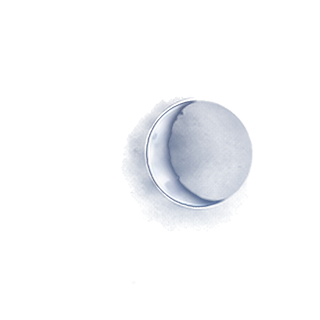
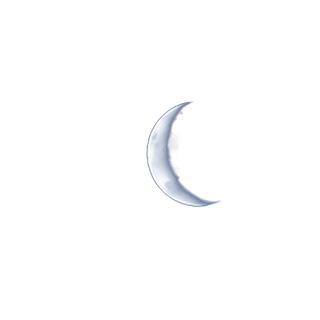
Месяц крупнее и без тёмного круга вокруг
Месяц ×1.5 на десктопе и ×2 на телефоне, на десктопе поднят на 30px. В полный
экран на телефоне он больше не теряется: правило .sceneFull перебивало телефонную
ветку старшинством селектора и навязывало узкому экрану десктопную долю ширины.

Тёмный круг вокруг месяца складывался из двух разных вещей.

Сама картинка тащила в слой не только серп: у месяца на исходнике слабо светится
и вся остальная половина диска, превышение над фоном 10–30 против 95–190 у серпа.
В кадре это читалось не свечением, а мутным пятном, и порог его срезает.

Кружок неба под диском — тот, что закрывает звёзды за невидимой половиной луны, —
разъезжался с самим небом. Градиент в нём был подобран руками под прежнюю картинку,
а высота задана долей диска: обе привязки держались только на том, что диск и небо
растут от одной ширины кадра. В полный экран это неверно, и кружок выходил темнее
неба на десяток единиц по синему — то есть заметным кругом.

Теперь он рисует ровно тот же градиент, который залит в саму картинку (SKY_PROFILE
из tools/scene-assets), расписан на её честную высоту и сдвинут так, чтобы лечь с ней
друг на друга. Высоту меряет сама сцена и кладёт в --sky-img-px: считается она по двум
разным правилам, и какое в силе, зависит от того, что шире — окно или небо. В диск
попадает тот кусок неба, над которым месяц стоит, поэтому двигать его можно куда угодно.

Claude-Session: https://claude.ai/code/session_01QeEwrmntMpcrMXwYX2y9u2

Changed region(s): [[0.375, 0.3125, 0.8125, 0.6875]]

diff --git a/src/components/SeaScene/SeaScene.module.less b/src/components/SeaScene/SeaScene.module.less
@@ -82,7 +82,10 @@
 // Мерка — верхняя кромка строки состояния: 8px отступа шапки и строка заголовка над ней
 // (замер: заголовок кончается на 30px от верха сцены). Не середина строки: диск на телефоне
 // выше её самой, и, поставленный серединой, он задевал бы заголовок сверху.
-@moon-above: 70px;
+//
+// Высота над горизонтом на десктопе — повыше середины неба: месяц, висящий над самой водой,
+// спорит с лунной дорожкой, которая из него же и растёт.
+@moon-above: 100px;
 @moon-top-mobile: 31px;
 
 // Сколько месяцу оставаться над горизонтом хотя бы. В тесном кадре (вылезла клавиатура,
@@ -97,31 +100,46 @@
 // высоты, то есть 10.94% картинки свисает ниже диска.
 //
 // На телефоне та же доля записана в vw: сцена там во всю ширину экрана, и обе записи значат
-// одно и то же. Нужна именно эта — размер диска входит в расчёт кружка неба под ним,
-// а процент в background-position считался бы уже от самого диска, а не от кадра.
-@moon-disc: 4.155%;
-@moon-disc-max: 36px;
-@moon-disc-mobile: 3.27vw;
-@moon-disc-max-mobile: 27px;
+// одно и то же. Нужна именно эта — от неё отмеряется, на какой высоте над горизонтом месяц
+// в итоге оказался, а от этого зависит, какой кусок неба лечь под диск (см. --moon-lift).
+@moon-disc: 6.23%;
+@moon-disc-max: 54px;
+@moon-disc-mobile: 6.54vw;
+@moon-disc-max-mobile: 54px;
 @moon-image: (100% / 0.59375); // 168.42% — картинка от диаметра диска
 @moon-image-drop: (-10.94% / 0.59375); // -18.42% — на столько картинка свисает ниже диска
 
-// Небо под месяцем. Сквозь тёмную половину месяца просвечивали звёзды — у картинки она
-// прозрачна, — поэтому под диск подложен кружок с небом. Небо здесь нарисовано градиентом
-// по замеру самого неба: четыре точки на снимке под месяцем, от горизонта вверх.
+// Небо под месяцем. Луна круглая, и сквозь её невидимую половину не должны просвечивать
+// звёзды — поэтому под диск подложен кружок с небом.
 //
-// Градиент расписан не по кружку, а по всему небу и прижат к горизонту — так же, как сама
-// картинка неба. Кружку достаётся тот кусок, над которым он стоит, и месяц можно двигать
-// по небу куда угодно: под ним всегда окажется то небо, которое там и есть.
+// Небо здесь нарисовано градиентом, и это ровно тот же градиент, который залит в саму
+// картинку неба: строки её сведены к этому профилю при подготовке (SKY_PROFILE в
+// tools/scene-assets/prepare-backgrounds.py), сверху вниз, двенадцатью отсчётами ровным шагом.
+// Совпадение обязано быть точным — расхождение в десяток единиц по синему уже читается как
+// круг вокруг месяца.
 //
-// Высота, на которую расписан градиент, задана долей самого кружка, а не пикселями: картинка
-// неба масштабируется по ширине кадра, и вместе с ней должен тянуться градиент. Кружок тоже
-// доля ширины — значит их отношение постоянно, и в нём вся привязка.
-@sky-gradient: linear-gradient(to top, #001f58 0%, #001849 20%, #00123c 40%, #000d30 60%, #000726 80%, #00031c 100%);
-// Доли эти считаны от диска, поэтому при смене его размера меняются вместе с ним: диск
-// уменьшили вдвое — доли выросли вдвое, а кружок неба в пикселях остался прежним.
-@sky-gradient-height: 540%;
-@sky-gradient-height-mobile: 680%;
+// Кружку он расписывается на всю высоту картинки неба и сдвигается так, чтобы лечь с ней
+// в точности друг на друга. Тогда в диск попадает ровно тот кусок неба, над которым месяц
+// стоит, и месяц можно двигать по небу куда угодно: кружок пойдёт за ним сам.
+@sky-gradient: linear-gradient(
+    to bottom,
+    #000118,
+    #000118,
+    #00031c,
+    #000623,
+    #000a2a,
+    #000d30,
+    #001138,
+    #001440,
+    #001849,
+    #001d53,
+    #00235e,
+    #012867
+);
+// Насколько картинка неба опущена ниже горизонта: она прижата к нему низом и сдвинута вниз
+// на десятую часть своей высоты (см. .skyStrip). Та же доля нужна и кружку — он отмеряется
+// от горизонта, а лечь должен на картинку.
+@sky-image-drop: 0.1;
 
 // Облака: тоже привязаны к горизонту, а не к верху кадра. Дальнее висит прямо на линии воды
 // и заходит за неё — потому и отступ у него отрицательный.
@@ -421,12 +439,12 @@
     --horizon: @sky-share;
     --sea-fit: ~'calc(100% - var(--horizon))';
     --sky-px: ~'calc(var(--scene-height) * 0.4)';
-    --moon-above: ~'calc(var(--scene-height) * 0.17)';
+    --moon-above: ~'calc(var(--scene-height) * 0.17 + 30px)';
     // Предел диска месяца. Второй мерой стоит доля высоты кадра: поджатый шторкой кадр
-    // оставляет небу свои 40% от куда меньшей высоты, и месяц, упёршийся в потолок в 66px,
+    // оставляет небу свои 40% от куда меньшей высоты, и месяц, упёршийся в потолок в 99px,
     // не помещался в него — верх рогов срезала кромка сцены. Число подобрано так, чтобы
     // на нетронутом кадре месяц остался прежним, а вместе с кадром — уменьшался.
-    --moon-disc-max: ~'min(66px, var(--scene-height) * 0.085)';
+    --moon-disc-max: ~'min(99px, var(--scene-height) * 0.128)';
     --berth-dot-far: ~'max(@{berth-dot-far}, @{berth-dot-far-full})';
     --berth-dot-near: ~'max(@{berth-dot-near}, @{berth-dot-near-full})';
     // Рейд идёт за высотой кадра, а не за его шириной. Развёрнутый кадр поджимается открытой
@@ -461,20 +479,23 @@
 
 // Месяц на полноэкранной сцене отсчитывается от горизонта на всех экранах: телефонная мерка
 // вела его от строки состояния, а строка эта на весь экран уезжает в самый угол и месяцу
-// больше не спутница. Правило перекрывает телефонную ветку .moon старшинством селектора.
-// Кружок неба под диском тоже пересчитывается. Обычная сцена задаёт его высоту долей самого
-// диска (@sky-gradient-height): диск — доля ширины кадра, картинка неба масштабируется по той же
-// ширине, значит отношение постоянно и 540% диска — это ровно высота видимого неба. Развёрнутая
-// сцена обе опоры выбивает: неба в ней 40% высоты кадра, а не доля ширины, да ещё и диск упёрся
-// в свой потолок. От этого на широком мониторе градиент выходил вдвое короче неба, сваливался
-// к тёмному концу раньше времени, и вокруг месяца проступал тёмный круг. Поэтому здесь высота
-// кружка берётся честной высотой неба в пикселях.
+// больше не спутница. Правило перекрывает телефонную ветку .moon старшинством селектора —
+// вместе с досчитанной там высотой над горизонтом, которая здесь снова задана прямо.
 .sceneFull .moon {
+    --moon-lift: var(--moon-above);
+
     top: auto;
-    bottom: calc(100% - var(--horizon) + var(--moon-above));
+    bottom: calc(100% - var(--horizon) + var(--moon-lift));
     width: @moon-disc;
-    background-size: 100% var(--sky-px);
-    background-position: center bottom calc(-1 * var(--moon-above));
+
+    // Размер — по-прежнему телефонный: доля ширины кадра, а кадр на телефоне и в обычном
+    // виде во всю ширину экрана. Без этого месяц брал бы здесь десктопную долю от той же
+    // узкой ширины и выходил вдвое мельче, чем в обычном виде, — то есть терялся на небе,
+    // которого в развёрнутом кадре как раз больше всего.
+    @media (max-width: @mobile-width) {
+        width: @moon-disc-mobile;
+        max-width: @moon-disc-max-mobile;
+    }
 }
 
 // Картинки пришли — сцена проступает целиком, разом. Плавно: сцена в шапке большая,
@@ -638,8 +659,14 @@
 // и мерить по ней нечего. Диск же несёт под собой кусок неба (см. @sky-gradient) и обязан
 // совпасть с тем кругом, который видно.
 .moon {
+    // На сколько нижняя кромка диска поднята над горизонтом. По этой мерке кружок неба
+    // встаёт на своё место, и другой у него нет: горизонт — общая опора неба и месяца.
+    // На десктопе это и есть высота месяца над горизонтом; на телефоне месяц отмерен
+    // от верха сцены, и мерку приходится досчитывать (см. ниже).
+    --moon-lift: var(--moon-above);
+
     position: absolute;
-    bottom: calc(100% - var(--horizon) + var(--moon-above));
+    bottom: calc(100% - var(--horizon) + var(--moon-lift));
     left: @moonlight;
     width: @moon-disc;
     max-width: var(--moon-disc-max);
@@ -647,30 +674,28 @@
     transform: translateX(-50%);
     border-radius: 50%;
 
-    // Небо под диском. Градиент расписан на всё небо и прижат к горизонту — тому же, что
-    // и у самой картинки неба, — а диску достаётся тот его кусок, над которым он стоит.
-    // Горизонт лежит на @moon-above ниже нижней кромки диска, туда фон и опущен.
+    // Кружок неба под диском. Высота — честная высота картинки неба в кадре: считается она
+    // по двум разным правилам (см. --sky-tile), поэтому меряет её сама сцена и кладёт сюда
+    // готовым числом. Сдвиг — до низа картинки: та опущена ниже горизонта на свою десятую
+    // долю, а диск поднят над горизонтом на --moon-lift.
     background-image: @sky-gradient;
     background-repeat: no-repeat;
-    background-size: 100% @sky-gradient-height;
-    background-position: center bottom calc(-1 * var(--moon-above));
+    background-size: 100% var(--sky-img-px);
+    background-position: center bottom calc(-1 * (var(--moon-lift) + var(--sky-img-px) * @sky-image-drop));
 
     // На телефоне месяц отмеряется от верха сцены: он стоит на строке состояния (см.
     // @moon-top-mobile) и никуда с неё не сходит, пока над горизонтом есть место. Место
     // кончилось — второй предел уводит его вверх, за кромку, вместе с обрезаемым небом.
-    //
-    // Кружок неба под диском при этом остаётся привязанным к горизонту, как и само небо:
-    // сколько от диска до воды, столько градиент и опущен, — только теперь эта высота
-    // не константа, а разница между горизонтом и местом, куда месяц встал.
+    // Высота над горизонтом при этом перестаёт быть константой: сколько от диска до воды,
+    // столько и осталось от неба под ним.
     @media (max-width: @mobile-width) {
         --moon-top: ~'min(@{moon-top-mobile}, calc(var(--sky-px) - @{moon-disc-mobile} - @{moon-above-min-mobile}))';
+        --moon-lift: ~'calc(var(--sky-px) - var(--moon-top) - @{moon-disc-mobile})';
 
         top: var(--moon-top);
         bottom: auto;
         width: @moon-disc-mobile;
         max-width: @moon-disc-max-mobile;
-        background-size: 100% @sky-gradient-height-mobile;
-        background-position: center bottom ~'calc(-1 * (var(--sky-px) - var(--moon-top) - @{moon-disc-mobile}))';
     }
 }
 

diff --git a/src/components/SeaScene/SeaScene.tsx b/src/components/SeaScene/SeaScene.tsx
@@ -294,6 +294,23 @@ export default function SeaScene({ members, myId, morseFeeds, ready, berths, onE
         return () => observer.disconnect();
     }, []);
 
+    // Высота картинки неба в кадре, px. Нужна она кружку неба под месяцем: кружок рисует тот же
+    // градиент, что залит в саму картинку (см. @sky-gradient), и совпасть они обязаны точно —
+    // иначе вокруг месяца проступает круг посветлее или потемнее неба. Спрашиваем саму плитку,
+    // а не считаем: высота её берётся по двум разным правилам (см. --sky-tile), и какое из них
+    // сейчас в силе, зависит от того, что в кадре шире — окно или само небо.
+    const skyTileRef = useRef<HTMLImageElement>(null);
+    const [skyImageHeight, setSkyImageHeight] = useState(0);
+    useEffect(() => {
+        const tile = skyTileRef.current;
+        if (!tile) {
+            return undefined;
+        }
+        const observer = new ResizeObserver(([entry]) => setSkyImageHeight(entry.contentRect.height));
+        observer.observe(tile);
+        return () => observer.disconnect();
+    }, []);
+
     // Задники готовы — сцену можно показывать.
     const [painted, setPainted] = useState(false);
     useEffect(() => {
@@ -747,19 +764,20 @@ export default function SeaScene({ members, myId, morseFeeds, ready, berths, onE
             className={[styles.scene, painted ? styles.scenePainted : '', full ? styles.sceneFull : '']
                 .filter(Boolean)
                 .join(' ')}
+            style={{ '--sky-img-px': `${skyImageHeight}px` } as CSSProperties}
             ref={sceneRef}
         >
             <div className={styles.sky}>
                 {/* Небо-текстура: картинка стыкуется сама с собой, поэтому плитки одинаковы
                     и просто лежат в ряд. Орион — в средней: см. .skyStrip в стилях. */}
                 <div className={styles.skyStrip}>
-                    <img className={styles.skyTile} src={skyUrl} alt="" />
+                    <img className={styles.skyTile} src={skyUrl} alt="" ref={skyTileRef} />
                     <img className={styles.skyTile} src={skyUrl} alt="" />
                     <img className={styles.skyTile} src={skyUrl} alt="" />
                 </div>
             </div>
-            {/* Месяц лежит на кружке неба: у картинки тёмная половина прозрачна, и сквозь неё
-                просвечивали звёзды. Кружок этот — сам блок, а картинка внутри: диск месяца
+            {/* Месяц лежит на кружке неба: луна круглая, и сквозь её невидимую половину не должны
+                просвечивать звёзды. Кружок этот — сам блок, а картинка внутри: диск месяца
                 и картинка не одно и то же, у картинки вокруг диска пустые поля. */}
             <div className={styles.moon}>
                 <img className={styles.moonImage} src={moonUrl} alt="" />

diff --git a/tools/scene-assets/prepare-backgrounds.py b/tools/scene-assets/prepare-backgrounds.py
@@ -75,6 +75,11 @@ MOON_SOURCE = 'sky_clean_3296x1028.png'
 MOON_REACH = 230
 MOON_WIDTH = 320
 MOON_CONTRAST = 55
+# Насколько пиксель должен быть ярче окрестного неба, чтобы попасть в слой вообще.
+# На исходнике у месяца, кроме серпа, слабо светится и вся остальная половина диска —
+# пепельный свет, превышение над фоном 10–30 против 95–190 у серпа. В кадре сцены он
+# читается не свечением, а большим мутным кругом вокруг месяца, и порог его срезает.
+MOON_FLOOR = 32
 
 
 def prepare_sky() -> None:
@@ -180,7 +185,9 @@ def prepare_moon() -> None:
         blurred = np.dstack([ndimage.gaussian_filter(background[..., c], 6) for c in range(3)])
         background[lit] = blurred[lit]
 
-    alpha = np.clip(np.abs(crop - background).max(axis=2) / MOON_CONTRAST, 0, 1)
+    # Берём только то, что ярче неба: тёмного здесь нет вовсе (замер по исходнику: минимум
+    # превышения −3), а модуль разницы тянул бы в слой шум размытого фона.
+    alpha = np.clip(((crop - background).max(axis=2) - MOON_FLOOR) / MOON_CONTRAST, 0, 1)
 
     # Гасим всё за пределами круга вокруг месяца, чтобы не тащить соседние звёзды и дымку.
     rows, cols = np.ogrid[: crop.shape[0], : crop.shape[1]]
